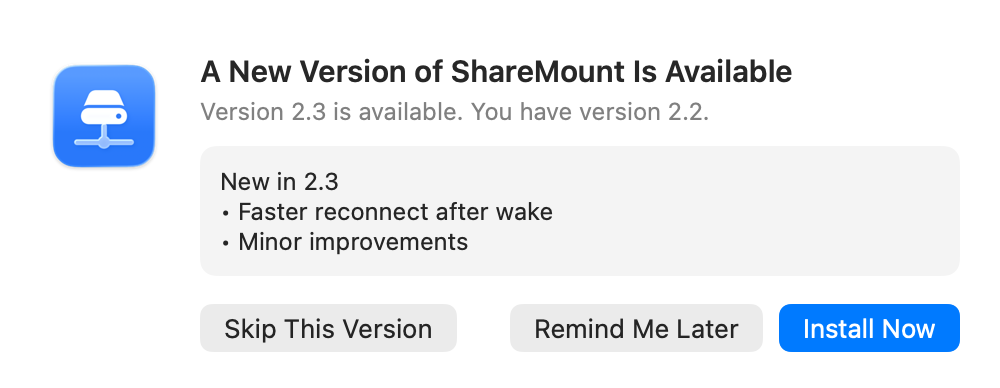
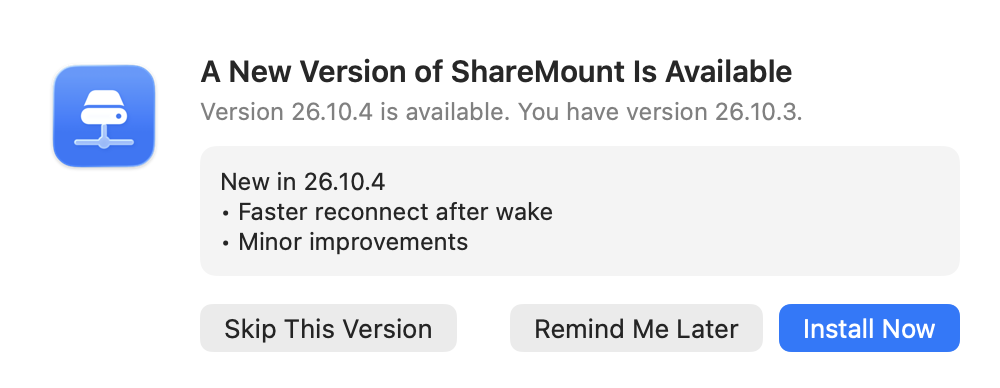
Screenshots neu gerendert (Menü, Einstellungen, Update-Fenster mit Kalender-Versionen 26.10.4/26.10.3); Snapshot-Werkzeug: Demo-Versionen angepasst, Prominent-Knopf im Snapshot-Build statt glassProminent (rendert offscreen leer)

Changed region(s): [[0.775, 0.7732, 0.961, 0.9278], [0.31, 0.2474, 0.806, 0.3093], [0.31, 0.433, 0.403, 0.4948]]

diff --git a/tools/snapshot.swift b/tools/snapshot.swift
@@ -52,7 +52,7 @@ struct Snap {
             print("--demo nur mit CFFIXED_USER_HOME=<Test-Home> (sonst würden echte Einstellungen gelesen)")
             exit(1)
         }
-        AppInfo.versionOverride = "2.2"
+        AppInfo.versionOverride = "26.10.3"
         if let icon = NSImage(contentsOfFile: "Resources/AppIcon.icns") { NSApp.applicationIconImage = icon }
         let engine = Engine()
         let updater = Updater()
@@ -79,8 +79,8 @@ struct Snap {
         for (name, dark) in [("light", false), ("dark", true)] {
             shot(env(SharesTab().frame(width: 600, height: 400)), "\(out)/settings-shares-\(name).png", dark)
         }
-        updater.preview("2.3", notes: Updater.cleanNotes(L("## Neu in 2.3\n- Schnelleres Wiederverbinden nach dem Aufwachen\n- Kleinere Verbesserungen",
-                                                         "## New in 2.3\n- Faster reconnect after wake\n- Minor improvements")))
+        updater.preview("26.10.4", notes: Updater.cleanNotes(L("## Neu in 26.10.4\n- Schnelleres Wiederverbinden nach dem Aufwachen\n- Kleinere Verbesserungen",
+                                                         "## New in 26.10.4\n- Faster reconnect after wake\n- Minor improvements")))
         for (name, dark) in [("light", false), ("dark", true)] {
             shot(env(UpdatePromptView(close: {})), "\(out)/update-\(name).png", dark)
         }
@@ -92,7 +92,7 @@ struct Snap {
         let f = DateFormatter()
         f.dateFormat = "yyyy-MM-dd HH:mm:ss"
         let lines: [(TimeInterval, String)] = [
-            (-3 * 3600 - 30, L("Start v2.2: 4 Freigabe(n)", "Launch v2.2: 4 share(s)")),
+            (-3 * 3600 - 30, L("Start v26.10.3: 4 Freigabe(n)", "Launch v26.10.3: 4 share(s)")),
             (-3 * 3600 - 28, L("Netzwerk bereit (en0)", "Network ready (en0)")),
             (-3 * 3600 - 25, L("Media: verbunden → /Volumes/Media", "Media: connected → /Volumes/Media")),
             (-3 * 3600 - 24, L("Backups: verbunden → /Volumes/Backups", "Backups: connected → /Volumes/Backups")),

diff --git a/Sources/Components.swift b/Sources/Components.swift
@@ -68,7 +68,12 @@ extension View {
     }
     /// Hervorgehobener Glas-Button (Akzentfarbe) für die eine empfohlene Aktion.
     @ViewBuilder func glassProminentButton() -> some View {
+        #if SNAPSHOT
+        // Offscreen (tools/snapshot.swift) zeichnet .glassProminent das ganze Fenster leer; fürs Bild der normale Prominent-Knopf.
+        self.buttonStyle(.borderedProminent)
+        #else
         if #available(macOS 26.0, *) { self.buttonStyle(.glassProminent) } else { self.buttonStyle(.borderedProminent) }
+        #endif
     }
     /// macOS 26/27: runder Liquid-Glass-Button, auf älteren Systemen randlos.
     @ViewBuilder func glassCircleButton() -> some View {
